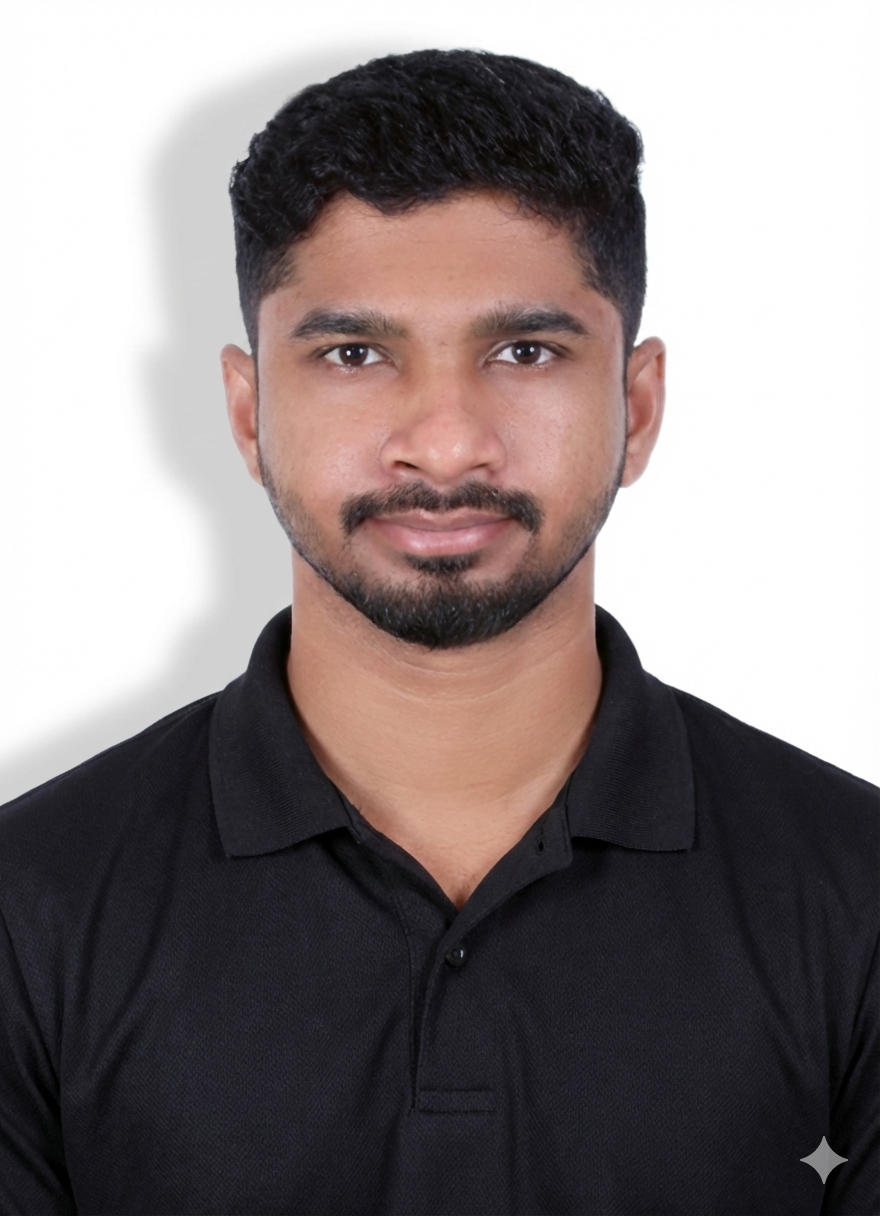
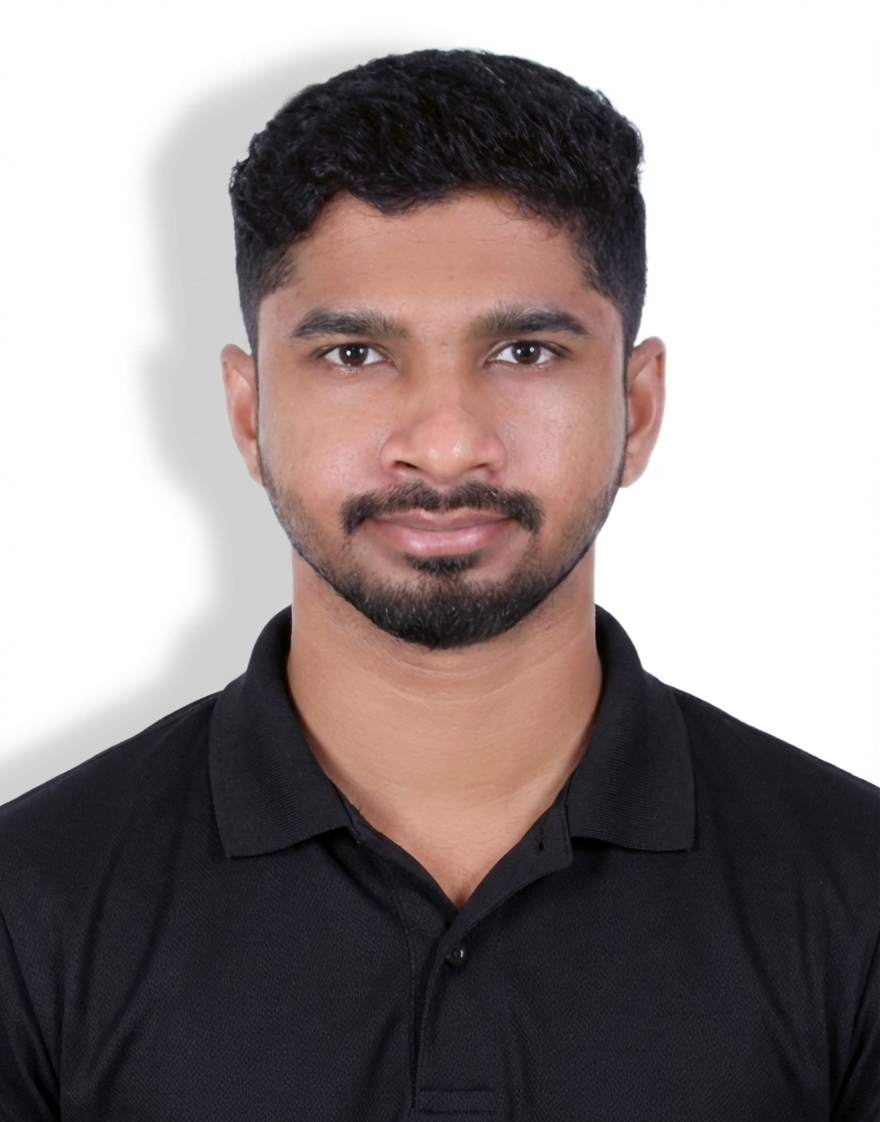
Update experience and family details in index.html for clarity

diff --git a/index.html b/index.html
@@ -212,12 +212,12 @@
               <hr class="light">
               <div class="detail-item mb-4">
                 <div class="detail-label text-secondary small text-uppercase fw-bold">Experience</div>
-                <div class="detail-value h6 text-dark mt-1">3.8 Years</div>
+                <div class="detail-value h6 text-dark mt-1">3.8+ Years</div>
               </div>
               <hr class="light">
               <div class="detail-item">
                 <div class="detail-label text-secondary small text-uppercase fw-bold">Annual Income</div>
-                <div class="detail-value h6 text-success mt-1">₹10 LPA</div>
+                <div class="detail-value h6 text-success mt-1">₹10+ LPA</div>
               </div>
             </div>
           </div>
@@ -237,17 +237,17 @@
             <div class="card-body p-5">
               <div class="detail-item mb-4">
                 <div class="detail-label text-secondary small text-uppercase fw-bold">Father</div>
-                <div class="detail-value h6 text-dark mt-1">Shopkeeper & Farmer</div>
+                <div class="detail-value h6 text-dark mt-1">Kalpataru Kar (Shopkeeper & Farmer)</div> 
               </div>
               <hr class="light">
               <div class="detail-item mb-4">
                 <div class="detail-label text-secondary small text-uppercase fw-bold">Mother</div>
-                <div class="detail-value h6 text-dark mt-1">Homemaker</div>
+                <div class="detail-value h6 text-dark mt-1">Mahamaya Kar (Homemaker)</div> 
               </div>
               <hr class="light">
               <div class="detail-item mb-4">
                 <div class="detail-label text-secondary small text-uppercase fw-bold">Brother</div>
-                <div class="detail-value h6 text-dark mt-1">AHL in Veterinary Field</div>
+                <div class="detail-value h6 text-dark mt-1">Partha Kar (AHL in Veterinary Field)</div>
               </div>
               <hr class="light">
               <div class="detail-item">
